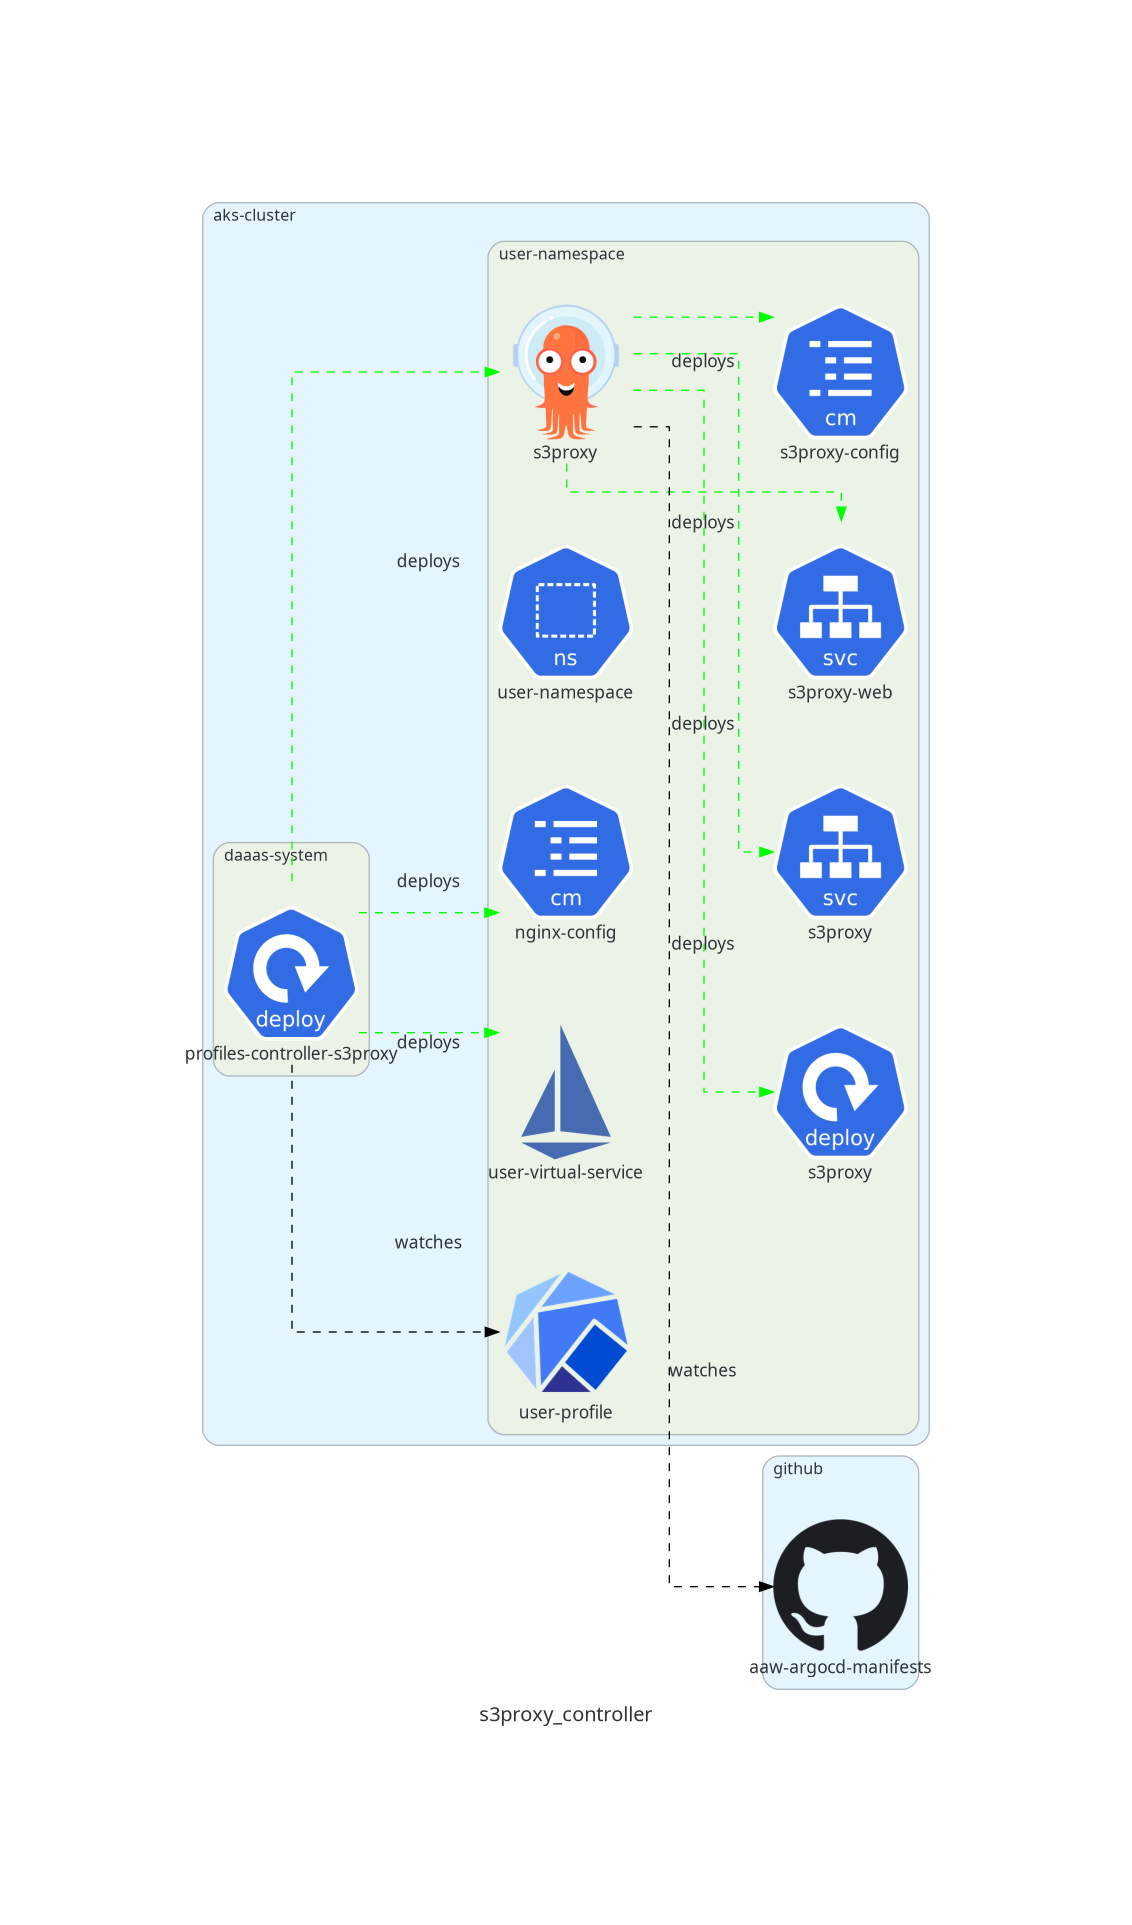
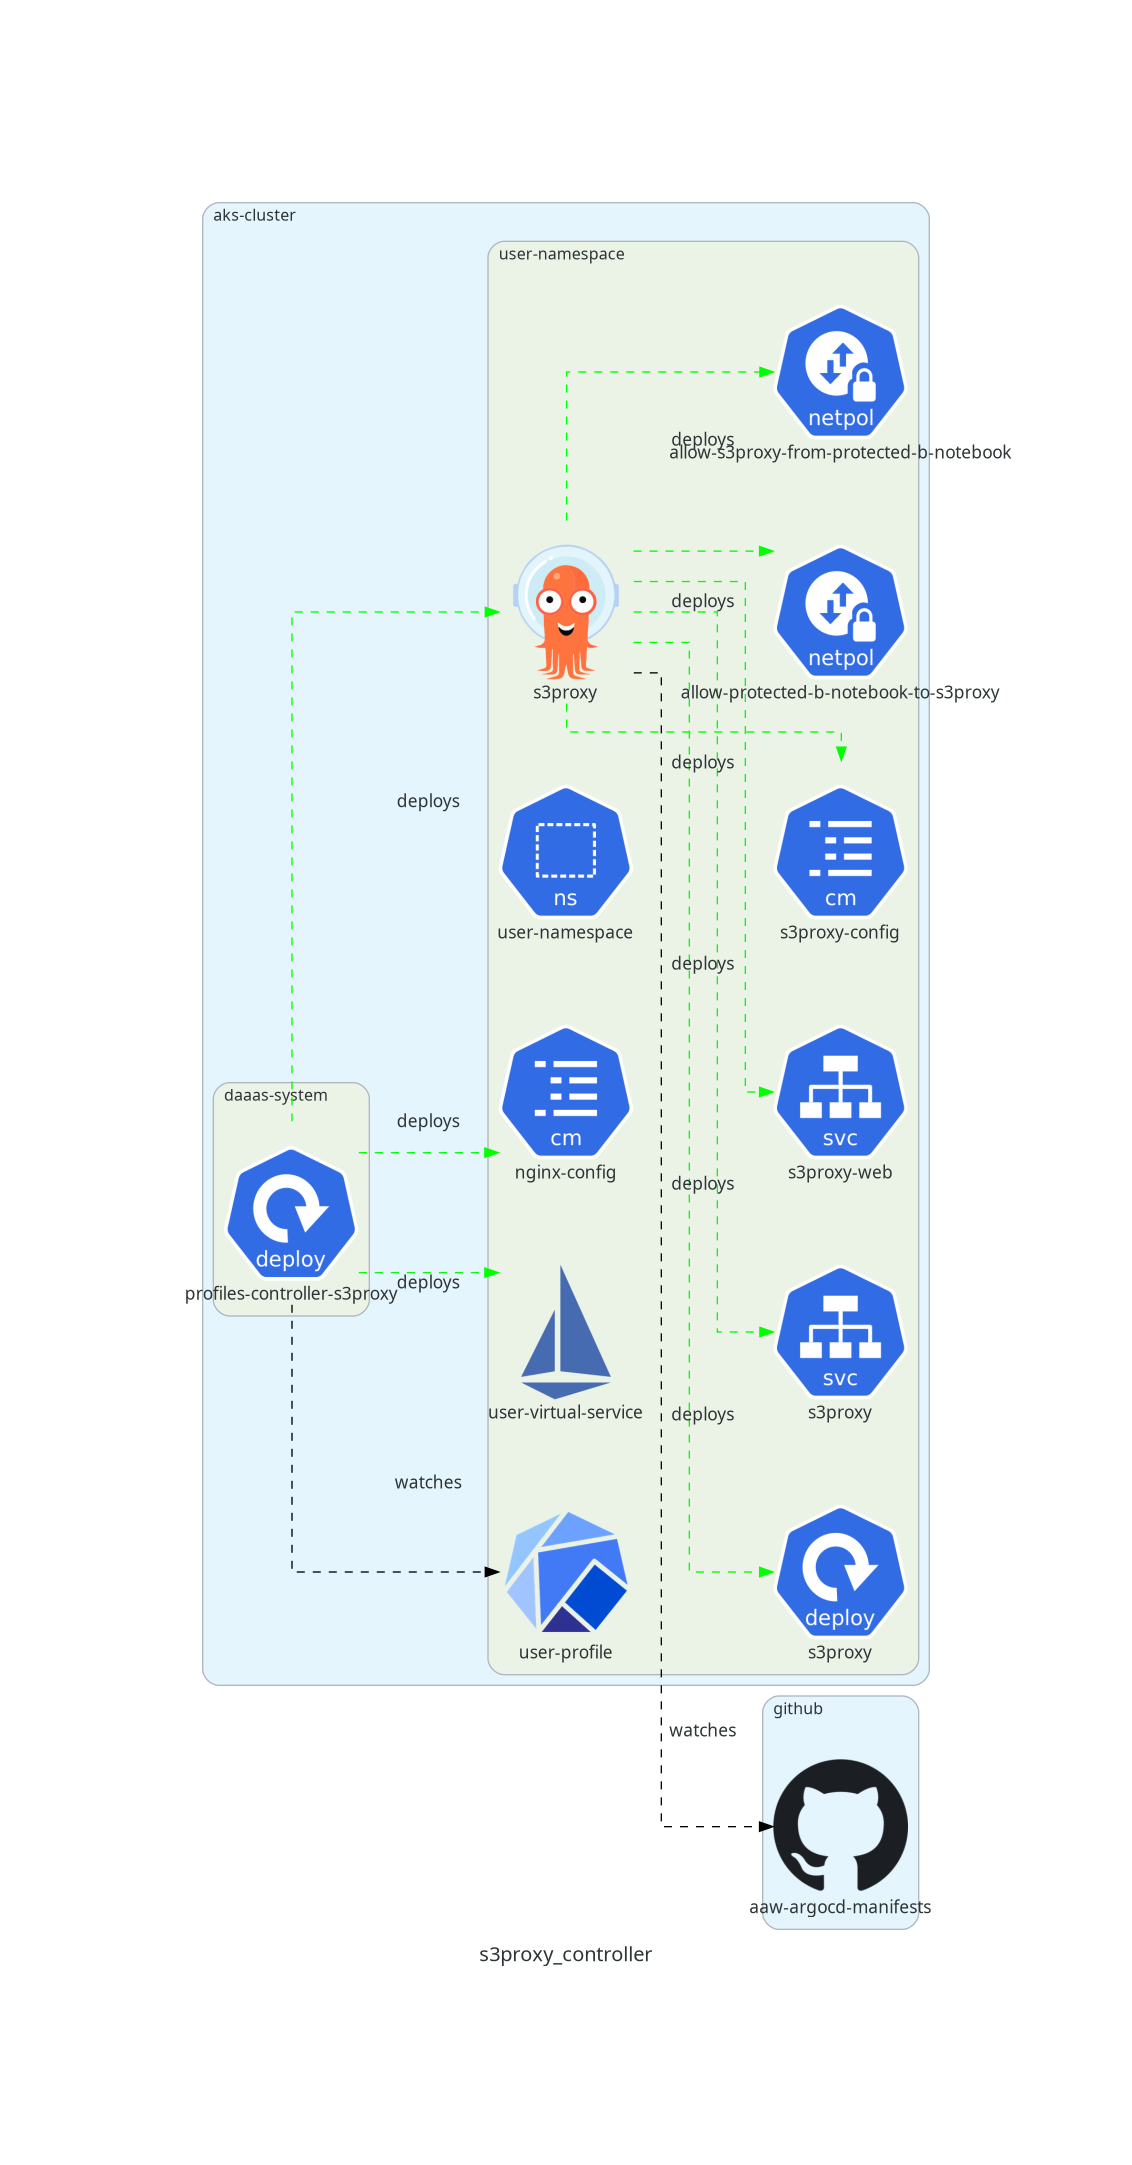
deploy: bba0c121f0a3ce0cc62016d208934de8fbe66b3d

diff --git a/features/object-storage/s3proxy/index.html b/features/object-storage/s3proxy/index.html
@@ -540,6 +540,10 @@
 </ul>
 <h1 id="feature-deployment">Feature Deployment</h1>
 <p><img alt="s3proxy deployment" src="../s3proxy_controller.png" /></p>
+<p>The S3Proxy application is deployed on an opt-in basis to reduce resource consumption in the cluster. The majority of users only require filesystem access to Azure blob storage, which is already provided by the <a href="blob-csi.md">blob fuse CSI driver</a>; it is only necessary to deploy this s3proxy application if users explicitly require an s3 interface to Azure blob storage.</p>
+<p>To enable s3proxy in a namespace, go to the <a href="https://github.com/statcan/aaw-kubeflow-profiles">aaw-kubeflow-profiles</a> repository, go to the specific  <code>*.jsonnet</code> file that contains the profile definition, then wrap the profile definition in the <code>addS3</code> function. See <a href="https://github.com/StatCan/aaw-kubeflow-profiles/blob/main/profile-aaw-fc.jsonnet#L7">this example</a> for a profile where both s3proxy and Gitea were added to the namespace.</p>
+<p>If the user profile has the label <code>s3.statcan.gc.ca/enabled: true</code>, then the s3proxy profiles controller will install an ArgoCD application, an nginx configmap, and an Istio virtual service into the user's namespace. The ArgoCD application deploys a number of resources to the user's namespace via jsonnet. The ArgoCD location watches the <a href="https://github.com/StatCan/aaw-argocd-manifests/tree/aaw-dev-cc-00/profiles-argocd-system/template/s3proxy">/profiles-argocd-system/template/s3proxy location of the aaw-argocd-manifests repo</a> for changes to the <code>aaw-dev-cc-00</code> or <code>aaw-prod-cc-00</code> branches for the dev and prod deployments, respectively.</p>
+<p><strong>Note</strong>: there are two network policies deployed by the per-namespace ArgoCD application (manifests can be found in the <code>application.jsonnet</code> file at the repo location linked above). These network policies are required in order to allow users to connect to the protected-b s3proxy instance from a noVNC protected-b notebook.</p>
 <h1 id="feature-implementation">Feature Implementation</h1>
 <p>The way users connect to the s3 explorer depends on whether they are working in an unclassified environment or a protected-b environment. In an unclassified environment, the architecture is as shown in the figure below.</p>
 <p><img alt="s3proxy / aws-js-s3-explorer implementation (unclassified)" src="../s3proxy_overview_uc.png" /></p>

diff --git a/features/object-storage/s3proxy_overview_pro-b.py b/features/object-storage/s3proxy_overview_pro-b.py
@@ -8,6 +8,8 @@ from diagrams.onprem.compute import Server
 from diagrams.onprem.container import Docker
 
 from diagrams.k8s.network import Service
+from diagrams.k8s.network import NetworkPolicy
+
 from diagrams.k8s.group import NS
 from diagrams.k8s.compute import Pod
 
@@ -32,9 +34,12 @@ with Diagram(myself(), show=False):
             ingress_gateway = Istio("kubeflow-ingress-gateway?")
         with Cluster("user-namespace-pb"):
             ns = NS("user-namespace-pb")
-            svc = Service("s3proxy")
-            prob_pod = Pod("noVNC-pro-b")
-            with Cluster("s3proxy-pod"):
+            svc = Service("s3proxy-protected-b")
+            svc_web = Service("s3proxy-protected-b-web")
+            pro_b_notebook = Pod("noVNC-pro-b")
+            allow_pro_b_nb_to_s3proxy = NetworkPolicy("allow-protected-b-notebook-to-s3proxy")
+            allow_s3proxy_from_pro_b_nb = NetworkPolicy("allow-s3proxy-from-protected-b-notebook")
+            with Cluster("s3proxy-protected-b-pod"):
                 s3proxy_pod = Pod("s3proxy-pod")
                 nginx = Docker("nginx")
                 s3proxy = Docker("s3proxy")
@@ -44,13 +49,15 @@ with Diagram(myself(), show=False):
 
     # User is in noVNC notebook and desktop environment is streamed to browser through VDI.
     browser - Edge(label="vdi", color="green") - ingress_gateway
-    ingress_gateway - Edge(label="vdi", color="green") - prob_pod
+    ingress_gateway - Edge(label="vdi", color="green") - pro_b_notebook
 
     # protected-b pod communicates to the s3proxy-web service directly
-    prob_pod >> Edge(label="requests", color="green") >> svc
+    pro_b_notebook >> Edge(label="API calls to s3proxy", color="green") >> svc
+    pro_b_notebook >> Edge(label="static files", color="green") >> svc_web
 
     # ingress gateway forwards request to s3proxy service
-    svc >> Edge(label="static files", color="green") >> nginx
+    svc >> Edge(label="API calls to s3proxy", color="green") >> nginx
+    svc_web >> Edge(label="static files", color="green") >> nginx
 
     # AJAX calls to s3proxy service pass through to s3proxy container
     nginx >> Edge(label="s3 API calls", color="green") >> s3proxy

diff --git a/features/object-storage/s3proxy_controller.py b/features/object-storage/s3proxy_controller.py
@@ -1,4 +1,3 @@
-
 import os
 
 from diagrams import Cluster, Diagram, Edge
@@ -6,6 +5,8 @@ from diagrams import Cluster, Diagram, Edge
 from diagrams.k8s.podconfig import CM
 
 from diagrams.k8s.network import Service
+from diagrams.k8s.network import NetworkPolicy
+
 from diagrams.k8s.group import NS
 from diagrams.k8s.compute import Deployment
 
@@ -38,6 +39,8 @@ with Diagram(myself(), show=False):
             s3proxy_svc = Service("s3proxy")
             web_svc = Service("s3proxy-web")
             s3proxy_cm = CM("s3proxy-config")
+            allow_pro_b_nb_to_s3proxy = NetworkPolicy("allow-protected-b-notebook-to-s3proxy")
+            allow_s3proxy_from_pro_b_nb = NetworkPolicy("allow-s3proxy-from-protected-b-notebook")
     with Cluster("github"):
         github_repo = Github("aaw-argocd-manifests")
 
@@ -53,6 +56,7 @@ with Diagram(myself(), show=False):
     argocd_app >> Edge(label="deploys", color="green", style="dashed") >> s3proxy_svc
     argocd_app >> Edge(label="deploys", color="green", style="dashed") >> web_svc
     argocd_app >> Edge(label="deploys", color="green", style="dashed") >> s3proxy_cm
+    argocd_app >> Edge(label="deploys", color="green", style="dashed") >> allow_pro_b_nb_to_s3proxy
+    argocd_app >> Edge(label="deploys", color="green", style="dashed") >> allow_s3proxy_from_pro_b_nb
 
-    
-            
+
